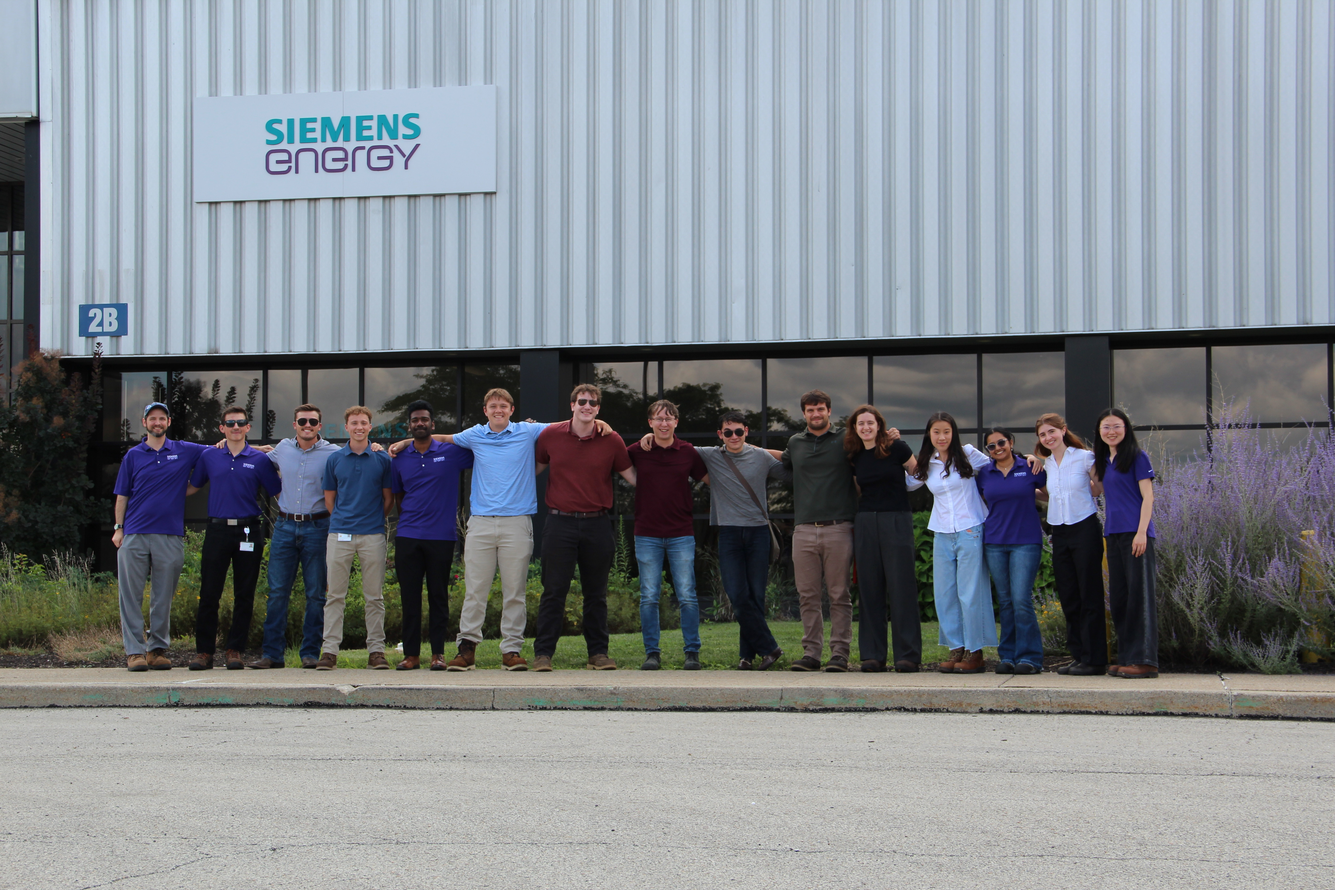
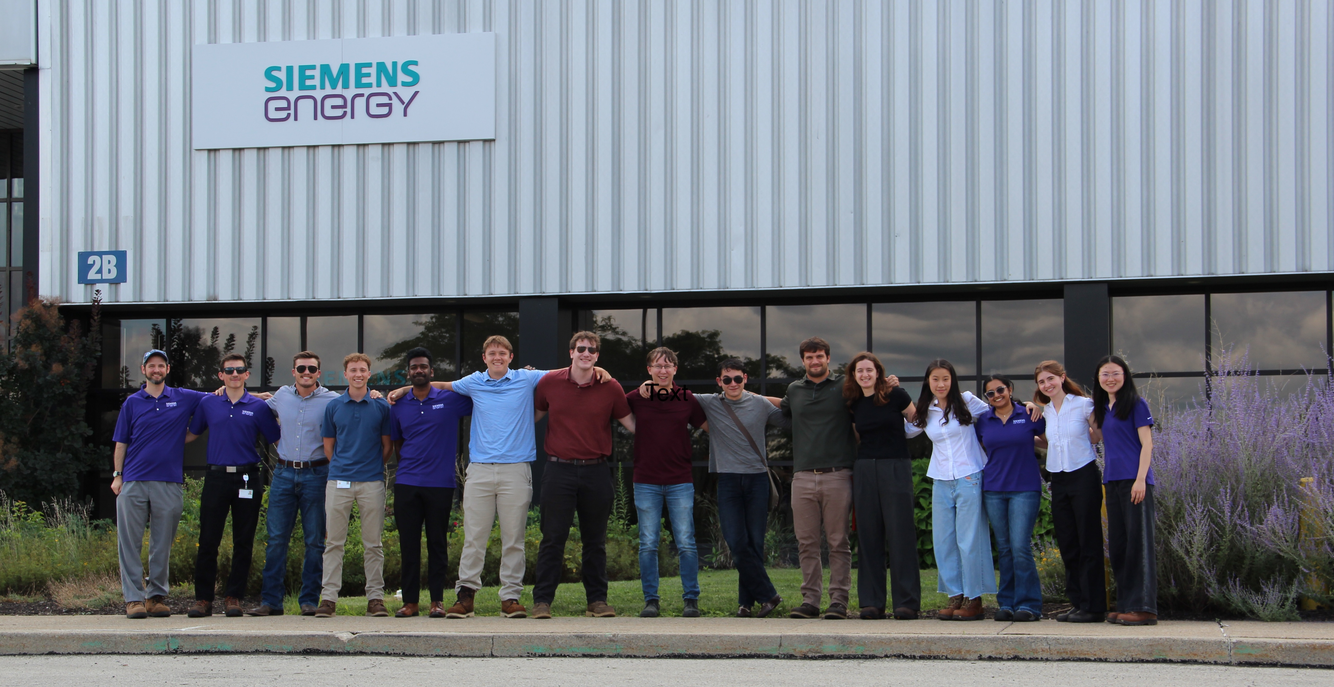
update images

diff --git a/index.html b/index.html
@@ -599,7 +599,7 @@
           <div class="flip-hint">Click to flip</div>
           <div class="flip-caption">
             <h3>Payload Builder</h3>
-            <span class="card-org">· CMU Rocket Command</span>
+            <span class="card-org">· Carnegie Mellon Rocket Command</span>
             <div class="card-date">Oct 2024 - Jun 2025</div>
           </div>
         </div>
@@ -625,7 +625,7 @@
     <div class="flip-card" tabindex="0" role="button" aria-pressed="false" aria-label="Photolithography Stepper Developer at Hacker Fab, CMU — click to flip for details">
       <div class="flip-card-inner">
         <div class="flip-card-front">
-          <img class="flip-media" src="images/PS.jpg" alt="Photolithography Stepper Developer at Hacker Fab, CMU">
+          <img class="flip-media" src="images/hacker.png" alt="Photolithography Stepper Developer at Hacker Fab, CMU">
           <div class="flip-hint">Click to flip</div>
           <div class="flip-caption">
             <h3>Photolithography Stepper Developer</h3>
@@ -777,20 +777,21 @@
         <div class="tags">
           <span class="tag">C</span><span class="tag">C++</span><span class="tag">Python</span>
           <span class="tag">SystemVerilog</span><span class="tag">JavaScript</span>
+          <span class="tag">Go</span><span class="tag">React</span>
         </div>
       </div>
       <div class="skill-group">
         <h4>Hardware &amp; Design Tools</h4>
         <div class="tags">
           <span class="tag">KiCad</span><span class="tag">SolidWorks</span><span class="tag">Arduino</span>
-          <span class="tag">PlatformIO</span><span class="tag">GDB</span><span class="tag">ANSYS Mechanical</span>
+          <span class="tag">PlatformIO</span><span class="tag">GDB</span>
         </div>
       </div>
       <div class="skill-group">
         <h4>ML &amp; Data</h4>
         <div class="tags">
           <span class="tag">PyTorch</span><span class="tag">TensorFlow</span><span class="tag">Pandas</span>
-          <span class="tag">NumPy</span><span class="tag">HLS4ML</span>
+          <span class="tag">NumPy</span><span class="tag">SQL</span>
         </div>
       </div>
     </div>
